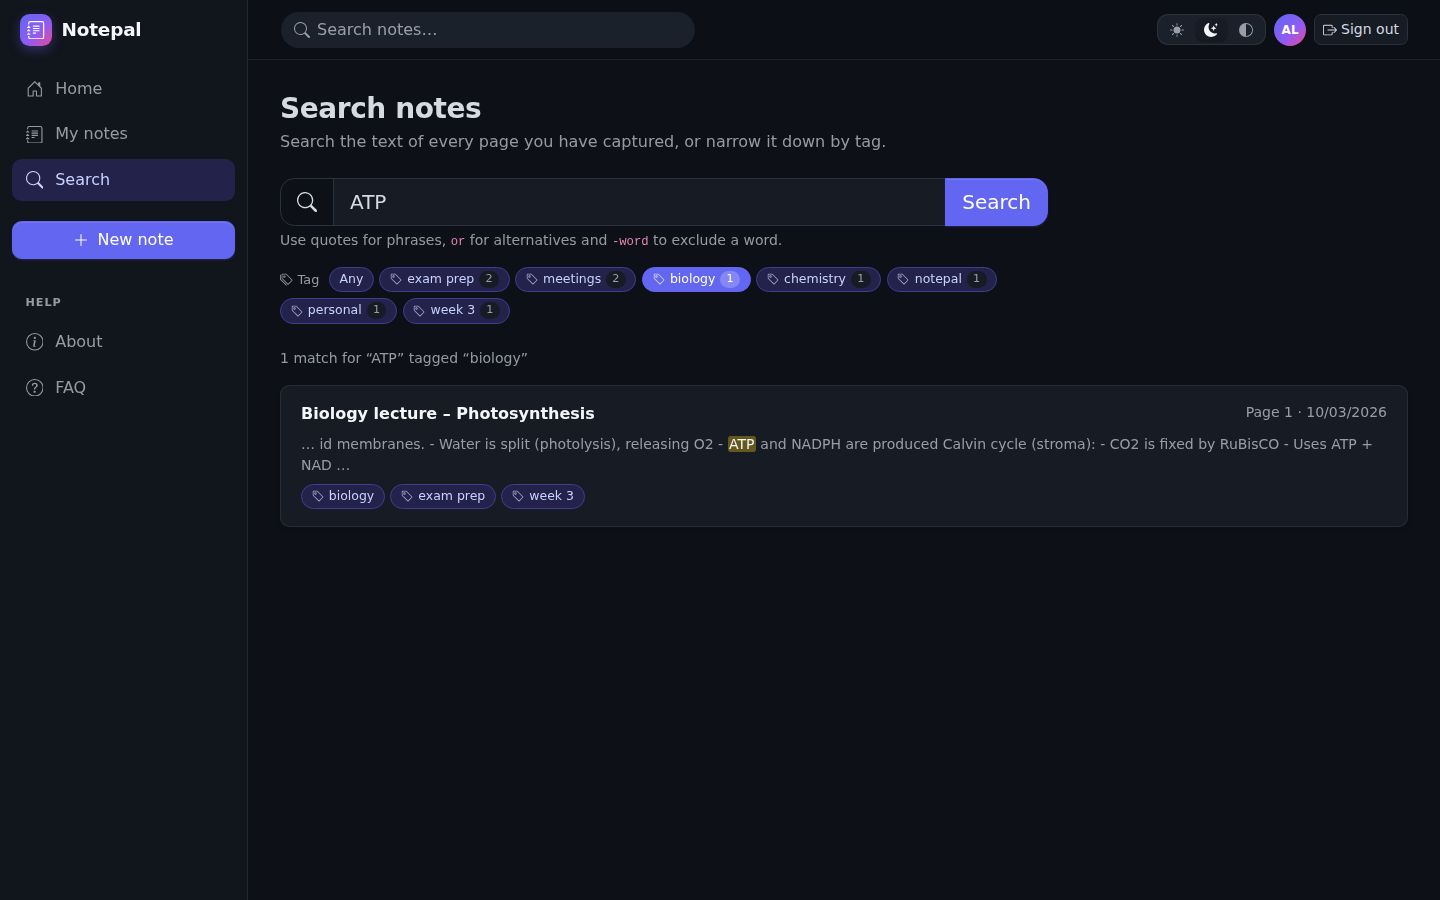
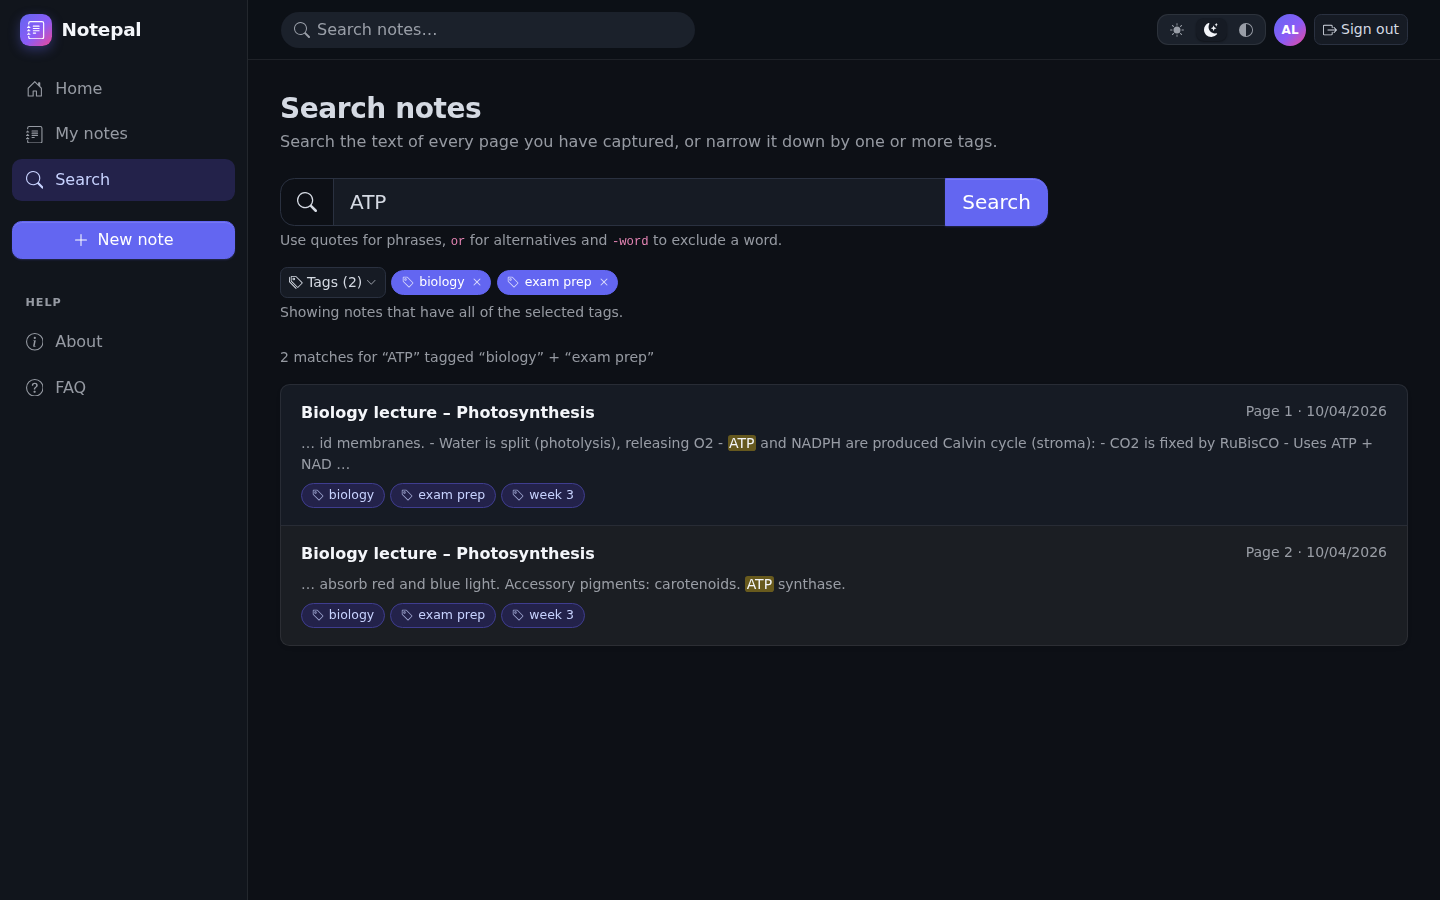
Fix Escape on tag picker; docs and screenshots for multi-tag search and add pages

diff --git a/README.md b/README.md
@@ -8,7 +8,8 @@ side by side, and search everything you have captured. Every user only ever sees
 ## Features
 
 - **Capture**: live camera capture in the browser (`getUserMedia`), the device camera app on phones, or upload
-  JPEG/PNG/WebP/GIF images, PDF and Word (`.docx`) files. Several files/photos become the pages of a single note.
+  JPEG/PNG/WebP/GIF images, PDF and Word (`.docx`) files. Several files/photos become the pages of a single note,
+  and more pages can be appended to an existing note later (**Add pages**).
 - **Original storage**: the uploaded bytes are stored unchanged in PostgreSQL (`bytea`), alongside the extracted text.
 - **AI OCR**: images (and scanned PDF pages) are sent to a Foundry agent (`gpt-4.1-mini` by default) that transcribes
   handwritten or printed text. Digital PDFs and Word files are parsed locally (PdfPig / Open XML SDK). Work runs in a
@@ -17,7 +18,8 @@ side by side, and search everything you have captured. Every user only ever sees
   separately from the AI text, so you can revert or re-run extraction at any time.
 - **Tags**: tag each note (on upload or later), with one-click suggestions from tags you have used before. Tags are
   normalised (lower case, no leading `#`), stored as a PostgreSQL `text[]` with a GIN index, shown on cards, notes and
-  search results, and used to filter **My notes** and **Search** (with or without search terms).
+  search results, and used to filter **My notes** (tag drop-down) and **Search** (multi-select: notes must have every selected tag,
+  with or without search terms).
 - **Search**: PostgreSQL full-text search (stemmed, ranked, `websearch_to_tsquery` syntax: `"phrases"`, `or`, `-exclude`)
   over corrected text and titles, plus substring matching, with highlighted snippets.
 - **Per-user isolation**: Entra ID sign-in. The API only accepts access tokens for its `access_as_user` scope and
@@ -55,6 +57,7 @@ All endpoints (except `/healthz`) require a token with the `access_as_user` scop
 | `GET /api/notes?page=&pageSize=&tag=` | The caller's notes, newest first; repeat `tag` to require several tags |
 | `POST /api/notes` | `multipart/form-data` with `title`, optional `tags` (repeatable, max 20) and one or more `files` (max 20 files, 20 MB each) |
 | `GET /api/notes/{id}` | Note with its pages and text |
+| `POST /api/notes/{id}/pages` | `multipart/form-data` with one or more `files`, appended as new pages (the note's total stays within 20 pages) |
 | `PUT /api/notes/{id}` | Rename |
 | `PUT /api/notes/{id}/tags` | Replace the note's tags: `{ "tags": ["biology", "exam prep"] }` |
 | `GET /api/tags` | Tags the caller has used, with note counts (most used first) |

diff --git a/docs/screenshots/README.md b/docs/screenshots/README.md
@@ -22,12 +22,14 @@ Captured from the web app at 1440×900 (mobile at 390×844) with sample data.
 | ![Edit tags, light](light-note-edit-tags.png) | ![Edit tags, dark](dark-note-edit-tags.png) |
 | ![Tag filter, light](light-my-notes-tag-filter.png) | ![Tag filter, dark](dark-my-notes-tag-filter.png) |
 
-## My notes, Search (text + tag), New note (with tags), Welcome
+## My notes, Search (text + multi-tag picker), Add pages, New note (with tags), Welcome
 
 | Light | Dark |
 | --- | --- |
 | ![My notes, light](light-my-notes.png) | ![My notes, dark](dark-my-notes.png) |
 | ![Search, light](light-search.png) | ![Search, dark](dark-search.png) |
+| ![Search multi-tag picker, light](light-search-tags-open.png) | ![Search multi-tag picker, dark](dark-search-tags-open.png) |
+| ![Add pages, light](light-add-pages.png) | ![Add pages, dark](dark-add-pages.png) |
 | ![New note, light](light-new-note.png) | ![New note, dark](dark-new-note.png) |
 | ![Welcome, light](light-welcome.png) | ![Welcome, dark](dark-welcome.png) |
 
